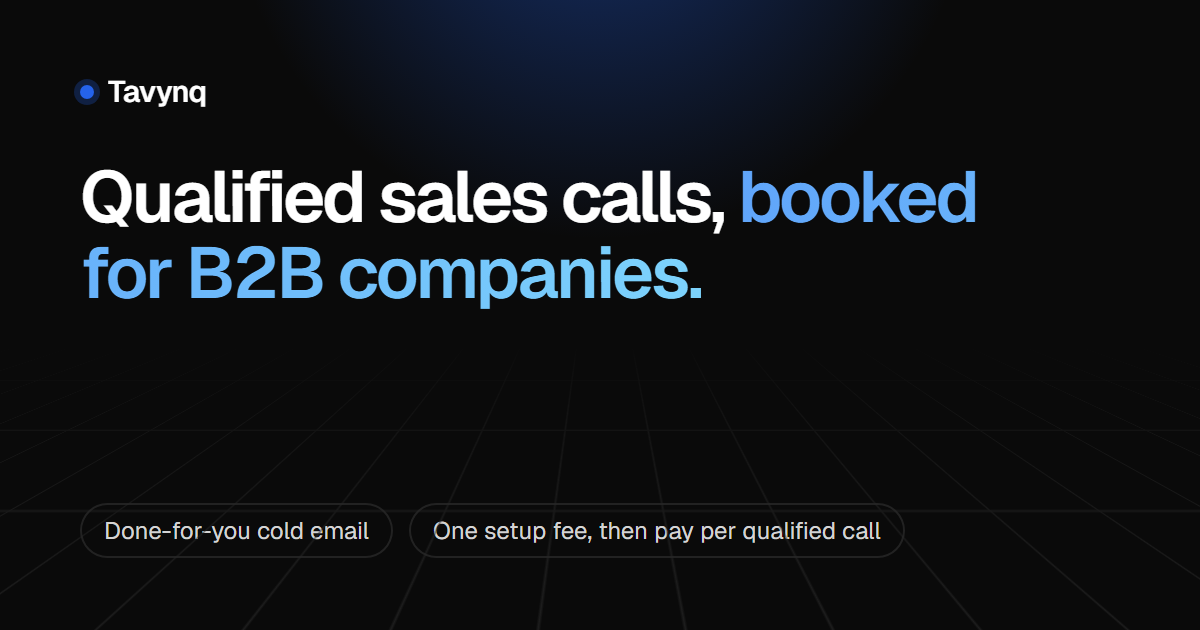
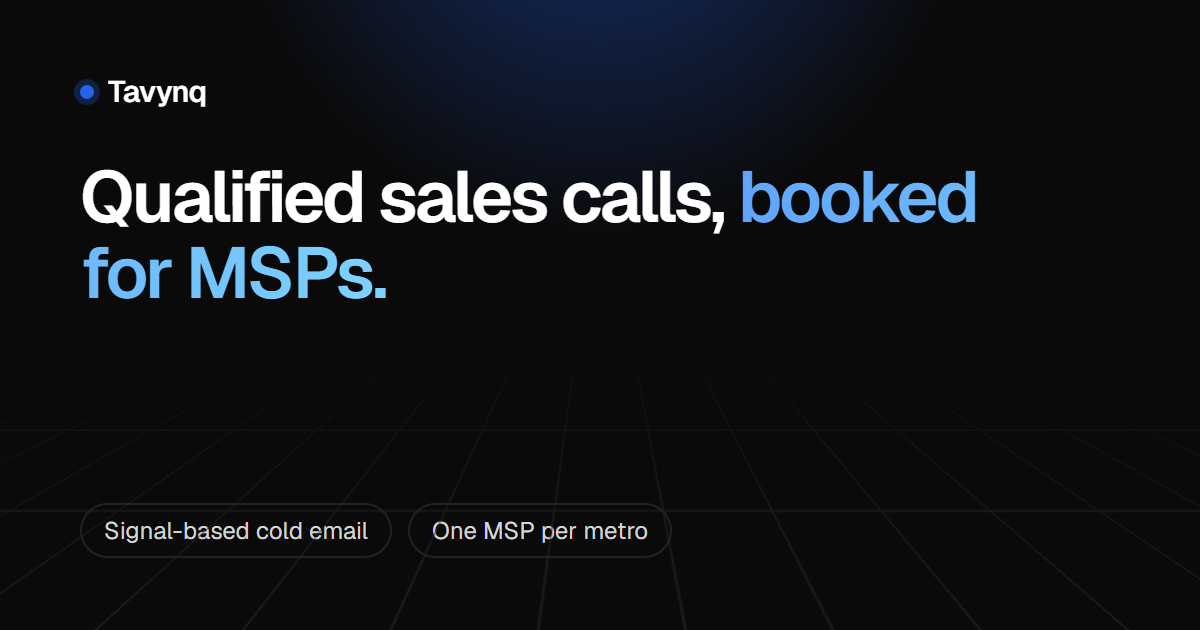
Update contact, legal drafts, share image, and README for MSPs
Privacy draft now covers public business signals and Meeting Brief
sharing; Terms draft covers bad-fit billing.

Changed region(s): [[0.1542, 0.3921, 0.5858, 0.4825], [0.37, 0.8143, 0.74, 0.8746], [0.0925, 0.8143, 0.3083, 0.8746]]

diff --git a/src/pages/privacy.tsx b/src/pages/privacy.tsx
@@ -13,8 +13,9 @@ export function Privacy() {
     <LegalPage title="Privacy Policy" lastUpdated="October 1, 2026">
       <LegalSection title="Overview">
         <p>
-          {site.legalName} ("{site.name}," "we," "us") is a B2B lead generation agency. We
-          use email outreach to book sales calls for our own business and for our clients.
+          {site.legalName} ("{site.name}," "we," "us") is a lead generation agency for managed
+          IT service providers (MSPs). We use email outreach to book sales calls for our own
+          business and for our clients.
           This policy explains what information we collect through tavynq.com, our
           outreach, and our client work, and how we use it.
         </p>
@@ -33,6 +34,15 @@ export function Privacy() {
           To run outreach, we collect professional contact details (such as name, job title,
           company, work email, and company website) from business data providers and
           publicly available sources. We verify email addresses before sending.
+        </p>
+        <p>
+          <strong className="font-medium text-gray-900 dark:text-white">
+            Public business signals.
+          </strong>{" "}
+          We also review publicly available information about businesses, such as published
+          DNS and email security records, job postings, office announcements, and company
+          size. We only look at public information. We never scan, probe, or test anyone's
+          systems.
         </p>
         <p>
           <strong className="font-medium text-gray-900 dark:text-white">
@@ -65,7 +75,9 @@ export function Privacy() {
         <p>
           When we run campaigns for a client, we process prospect information on that
           client's behalf and under our agreement with them. We use it only to run that
-          client's campaigns.
+          client's campaigns. If you book a call with one of our clients, we share a short
+          brief with them before the call, including your business details, the public
+          information that led to our outreach, and your reply.
         </p>
       </LegalSection>
 

diff --git a/src/pages/terms.tsx b/src/pages/terms.tsx
@@ -21,9 +21,11 @@ export function Terms() {
 
       <LegalSection title="Our Services">
         <p>
-          {site.name} provides B2B lead generation: we build prospect lists, write and send
-          email outreach from sending domains we manage, handle replies, and book sales
-          calls on our clients' calendars.
+          {site.name} provides lead generation for managed IT service providers: we research
+          public business signals, build prospect lists, write and send email outreach from
+          sending domains we manage, handle replies, and book sales calls on our clients'
+          calendars. We use public information only and never scan or test anyone's
+          systems.
         </p>
         <p>
           Each client engagement is governed by a separate written agreement covering scope,
@@ -36,8 +38,9 @@ export function Terms() {
         <p>
           Prices shown on this site are a general guide. Your final pricing is set in your
           written agreement. Our standard model is a one-time setup fee plus a fee for each
-          qualified call that shows up. No-shows are not billed. Invoices are due as stated
-          in your agreement.
+          qualified call that takes place. No-shows are not billed, and neither are calls you
+          flag as a bad fit within {site.badFitWindowHours} hours under the written criteria
+          in your agreement. Invoices are due as stated in your agreement.
         </p>
       </LegalSection>
 

diff --git a/src/pages/contact.tsx b/src/pages/contact.tsx
@@ -72,7 +72,7 @@ function toE164(digits: string): string {
 export function Contact() {
   usePageMeta(
     `Contact | ${site.name}`,
-    `Questions about ${site.name}'s B2B lead generation? Send us a message and we'll get back to you.`,
+    `Questions about ${site.name}'s lead generation for ${site.niche.short}? Send us a message and we'll get back to you.`,
   )
 
   const [form, setForm] = useState<FormState>(initialState)
@@ -203,7 +203,7 @@ export function Contact() {
         Get in touch
       </h1>
       <p className="mt-3 text-gray-600 dark:text-gray-300">
-        Tell us what you sell and who you sell to, and we'll get back to you by email.
+        Tell us about your MSP and your metro, and we'll get back to you by email.
         Rather talk it through?{" "}
         <a
           href={site.calendlyUrl}
@@ -308,7 +308,7 @@ export function Contact() {
           <textarea
             id="message"
             rows={5}
-            placeholder="What you sell, who your ideal clients are, and where new business comes from today."
+            placeholder="Your metro, the businesses you serve best, and where new clients come from today."
             value={form.message}
             onChange={(e) => update("message", e.target.value)}
             className={inputClasses}

diff --git a/scripts/og-image.html b/scripts/og-image.html
@@ -94,11 +94,11 @@
     <div class="grid"></div>
     <div class="content">
       <div class="brand"><span class="dot"></span>Tavynq</div>
-      <h1>Qualified sales calls, <span>booked for B2B companies.</span></h1>
+      <h1>Qualified sales calls, <span>booked for MSPs.</span></h1>
     </div>
     <div class="footer">
-      <span class="pill">Done-for-you cold email</span>
-      <span class="pill">One setup fee, then pay per qualified call</span>
+      <span class="pill">Signal-based cold email</span>
+      <span class="pill">One MSP per metro</span>
     </div>
   </body>
 </html>

diff --git a/README.md b/README.md
@@ -1,17 +1,19 @@
 # Tavynq website
 
-Marketing site for **Tavynq**, a B2B lead generation agency. We use done-for-you cold email
-to book qualified sales calls for B2B companies. One-page site with a VSL, pricing, FAQ, and
-a "Book a call" (Calendly) call to action. Live at https://tavynq.com.
+Marketing site for **Tavynq**, a lead generation agency for managed IT service providers
+(MSPs). We use signal-based cold email to book qualified sales calls from local businesses.
+One-page site with pricing, FAQ, an optional VSL, and a "Book a call" (Calendly) call to
+action. Live at https://tavynq.com.
 
 ## Editing content
 
 Almost everything you'd want to change lives in **`src/config/site.ts`**:
 
 - niche, offer/headline, hero subhead
-- setup fee and per-call price ranges
+- pricing plans (Founding Partner and Standard) and the bad-fit window
 - the "qualified call" definition
-- Calendly URL, YouTube video ID (VSL), contact email, mailing address
+- Calendly URL, YouTube video ID (the video section stays hidden until it is set), contact
+  email, mailing address
 - page title, meta description, and social preview text
 
 `index.html`'s `<head>` (title, meta, Open Graph, JSON-LD) is filled from that file at build
